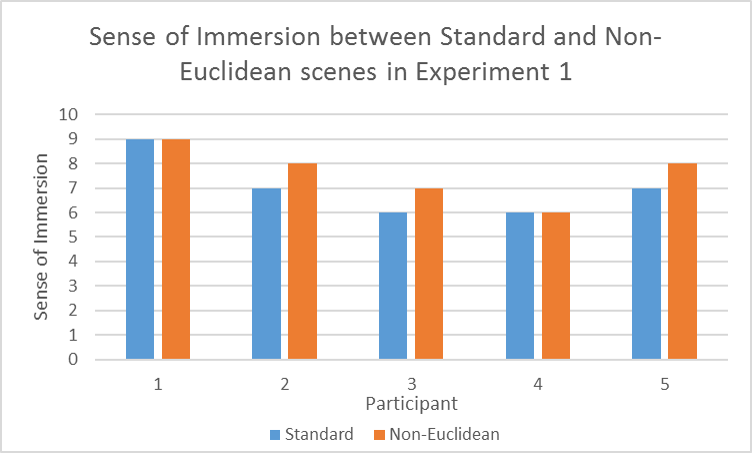
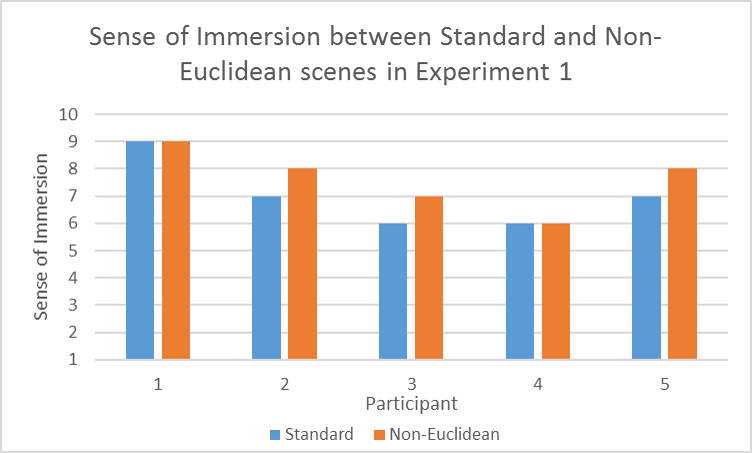
Report formatting and misc fixes
* Further graph fixes

* Reworded Abstract

* Made fixes based on lit review feedback. Re-added multi-column support for entire report

* Completed intro for literature review. Misc formatting.

diff --git a/Report/lr_vr.tex b/Report/lr_vr.tex
@@ -1,47 +1,56 @@
 \section{Presence in Virtual Reality}
 \label{lr:vr}
 
-%\begin{multicols*}{2}
+\begin{multicols*}{2}
 	
 	\subsection{Introduction}
 	\label{lr:vr:intro}
 	%		This section will introduce the key concepts that will be discussed in the following subsections.
 		Presence is the term used in VR systems to describe a user's sense of existing inside a VE. Because of this, it can be seen as one of, if not the most important feature of the design for a VR system.
-		
-		There are a few main features which are key to achieving a sense of presence in a VE. One example would be the general perception of the user for things such as depth perception, the ability for a person to calculate the distance of a point is from themselves, and sensorimotor adaptation, which is the calibration of a users senses to fit their environment. 
-		As well as this, there are specified areas such as affordance detection, the ability for a person to calculate interaction with an object or environment, which helps assist a user with navigation and interaction in a VE. 
+
+		There are a few main features which are key to achieving a sense of presence in a VE. One example would be the general perception of the user for things such as depth perception, the ability for a person to calculate the distance of a point from themselves, and sensorimotor adaptation, which is the calibration of a user's senses to fit their environment.
+		As well as this, there are specified areas such as affordance detection, the ability for a person to calculate interaction with an object or environment, which helps assist a user with navigation and interaction in a VE.
 		The following sections will review existing literature on the aforementioned features.
 	
 	\subsection{Affordances in VR}
 	\label{lr:vr:affordances}
 	%		Here I will introduce the concept of, and cover research into affordances in Virtual Reality.
 		%Perceiving affordances in virtual reality: influence of person and environmental properties in perception of standing on virtual grounds
-		Affordance is especially important to get right in VR, particularly in a video game environment, due to the world a user is in is designed to be interacted with. Unlike what common sense would dictate, research on affordance in the real world may not be as applicable for when designing interactions in a virtual world as expected. A study \cite{Regia-Corte2012} focusing on a persons perception for whether or not they could stand upright on an object at various angles in a virtual world found that, contrary to expected results, users would tend to be more cautious when judging their ability in a virtual environment (critical angle 21.98\degree) compared to an equivalent object in the real world (critical angle 30\degree), even with a lack of apparent risk. 
-		This study covered the various requirements for the experiments well, however there were a few areas in which it could still be expanded upon. These areas include comparing results from using a variety of VR systems to judge responses based off on hardware response times, display resolutions, and refresh rates, as well as increases and decreases in model and texture quality (not just the texture itself like they did) for judging the surfaces of the objects.
-		
+		Affordance is especially important to get right in VR, particularly in a video game environment, due to the world a user is in is designed to be interacted with.
+		Unlike what common sense would dictate, research on affordance in the real world may not be as applicable for when designing interactions in a virtual world as expected.
+		A study \cite{Regia-Corte2012} focusing on a person's perception for whether or not they could stand upright on an object at various angles in a virtual world found that, contrary to expected results, users would tend to be more cautious when judging their ability in a virtual environment (critical angle 21.98\degree) compared to an equivalent object in the real world (critical angle 30\degree), even with a lack of apparent risk.
+
+		This study covered the various requirements for the experiments well, however there were a few areas in which it could still be expanded upon.
+		These areas include comparing results from using a variety of VR systems to judge responses based on hardware response times, display resolutions, and refresh rates, as well as increases and decreases in model and texture quality (not just the texture itself as they did) for judging the surfaces of the objects.
+
 		% Designing presence for real locomotion in immersive virtual environments: an affordance-based experiential approach
-		Another way in which affordance directly affects a users sense of presence in VR is the simulation of real locomotion for the user. In a study \cite{Turchet2015} covering the ways in which a users movement is recorded and displayed in a VE (including, but not limited to, individual foot tracking, arm, leg, and head tracking, movement speed tracking, etc.), results found that while an increase in the coverage of the input also increased the sense of presence for the user, it was more important to focus the areas of which to track on their relevance to the scenario at hand. As well as this, the study found that while the input tracking itself was important, to attain a greater sense of presence it was also required for the physical representation of the user to match their real physical selves as much as possible, such as gender, height, and weight.
-		This study, while extremely thorough in its coverage of the various possible elements required to generate a sense of presence, could have recorded and displayed its results in a more usable manner than it was. Due to the way the experiments were conducted, the results do not indicate any sense of importance for each individual step in its contribution to the feeling of presence in the user. Because of this, further research could be undertaken to create a weighted system designed around the experiments conducted, signifying its importance for specific VR systems, creating a more convenient set of data for future use.
-		
+		Another way in which affordance directly affects a user's sense of presence in VR is the simulation of real locomotion for the user.
+		In a study \cite{Turchet2015} covering the ways in which a user's movement is recorded and displayed in a VE (including, but not limited to, individual foot tracking, arm, leg, and head tracking, movement speed tracking, etc.), results found that while an increase in the coverage of the input also increased the sense of presence for the user, it was more important to focus the areas based on their relevance to the scenario at hand.
+		As well as this, the study found that while the input tracking itself was important, to attain a greater sense of presence it was also required for the physical representation of the user to match their real physical selves as much as possible, such as gender, height, and weight.
+
+		This study, while extremely thorough in its coverage of the various possible elements required to generate a sense of presence, could have recorded and displayed its results in a more usable manner than it did.
+		Due to the way the experiments were conducted, the results do not indicate any sense of importance for each individual step in its contribution to the feeling of presence in the user.
+		Because of this, further research could be undertaken to create a weighted system designed around the experiments conducted, signifying its importance for specific VR systems, creating a more convenient set of data for future use.
+
 	\subsection{Perception in Virtual Environments}
 	\label{lr:vr:perception}
 		This section will cover existing research into how people perceive environments in Virtual Reality.
 		% Using virtual reality to augment perception, enhance sensorimotor adaptation, and change our minds.
 		Perception is a key feature to get right in VR, as incorrect calibration for features such as head tracking and input response can have both unintended, and undesired side-effects. In studies \cite{Wright2006}  \cite{Wright2009} \cite{Wright2011} \cite{Wright2013} \cite{Wright2014} around the effects of perception augmentation and sensorimotor adaptations, results showed that tests around sensorimotor processes that made use of Virtual Reality systems could have both intended and unintended effects on the participants central nervous system. 
 		(NOTE) This paragraph needs expanding upon
-		
-		
+
+
 		% Immersive Virtual Environment Technology to Supplement Environmental Perception, Preference and Behavior Research: A Review with Applications
-		
+
 		(PLACEHOLDER) Discuss \cite{smith2015} - Immersive virtual environment technology to supplement environmental perception, preference, and behaviour research
-		
+
 	\subsection{Conclusion}
 	\label{lr:vr:conclusion}
 		Here I will summarise the concepts and sources discussed in the previous sections, how reliable they may be, and how the concepts could apply to my project.
 		Due to recent relevant technology being both of a high quality, and low enough cost to warrant consumer interest, as well as its applications in not just Video Games, but in Medicine, Psychology, and Education, Virtual Reality is a very highly researched area.
-		
+
 		Studies have been conducted to cover an extremely wide range of applications and effects for VR, and because of this, there is a very solid foundation of work which can be both applied for practical uses, as well as a platform to build upon for future research.
-		
+
 		This is especially true in the two main focus points for the literature covered in this review, and will be beneficial for reference during the creation of the proposed system.
-	
-%\end{multicols*}
+
+\end{multicols*}

diff --git a/Report/Report.tex b/Report/Report.tex
@@ -1,11 +1,14 @@
 \documentclass[abstract=on,12pt]{scrreprt}
 
 % Set packages to be used
+\usepackage[rightcaption]{sidecap}	% Allows for figures with captions on the side, rather than the top/bottom
 \usepackage[hidelinks]{hyperref}	% Adds support for hyperlinks
 \usepackage[british]{babel}			% Set the language to UK English
 \usepackage[a4paper]{geometry}		% Set the paper type
 \usepackage[T1]{fontenc}			% Change the encoding to allow for more character types
 \usepackage{booktabs}				% More professional looking table layouts
+\usepackage{csquotes}				% Easy quotation
+\usepackage{enumitem}				% Nicer itemizations
 \usepackage{etoolbox}				% Lets you do fancy stuff with section types
 \usepackage{fancyhdr}				% Fancy Headers
 \usepackage{graphicx} 				% For loading graphic files
@@ -18,6 +21,7 @@
 \usepackage{apalike}				% Format references in APA styling
 \usepackage{gensymb}				% Allow inclusion of special characters, such as degrees
 \usepackage{lmodern} 				% Type1-font for non-english texts and characters
+\usepackage{wrapfig}				% Allows wrapping figures in text blocks
 
 % Set document specific info
 \title{Is Immersion Possible in Non-Euclidean Virtual Environments?}
@@ -25,6 +29,7 @@
 \author{Nathan Boxhall-Burnett}
 \setlength{\columnsep}{1cm}			% Set the spacing between columns
 \onehalfspacing						% Set the spacing between the lines of text
+%\doublespacing
 \graphicspath{Images/}				% Set the default path to use for images
 
 % Set the page number and running title as header
@@ -69,13 +74,11 @@
 	% Abstract
 	\begin{abstract}
 		\thispagestyle{plain}
-		expression of general problem/area
 
-		specific problem/objective attempted
-
-		what you have achieved
-
-		lessons learned
+		% expression of general problem/area
+		% specific problem/objective attempted
+		% what you have achieved
+		% lessons learned
 
 		%% DO NOT START BY SAYING WHAT YOU HAVE DONE 
 		%% DO NOT INCLUDE JARGON / DETAILS 
@@ -83,10 +86,11 @@
 		% Eg bad start “ I have created a web application” – start with overview and problem area first.
 		%% MAKE IT UNDERSTANDABLE TO ALL ! 
 
-
-%		With Virtual Reality (VR) development and availability increasing as rapidly as it has in recent years, especially in the video game market, experiences that are capable from Virtual Environments (VE) that are not limited to the restrictions of the real world, and the effectiveness they have in a users perception, need to be considered.
-%		This review explores the existing literature that covers the various requirements for creating a VE that consumers would perceive as 'realistic' in VR. As well as this, it also covers how these requirements have been, and can, be adapted to work inside of a world which does not follow the restrictions of real world geometry, such as in non-Euclidean or Escheresque space.
-%		Gaps in the current literature are outlined, alongside perspective areas for future research.
+		With Virtual Reality (VR) development and availability increasing as rapidly as it has in recent years, experiences that are capable from Virtual Environments (VE) that are not limited to the restrictions of the real world, and the effectiveness they have in a users perception and sense of immersion, need to be considered.
+		Studies surrounding a users interaction in VR environments that have taken place previously tend to focus on how reliably the user can interact with an environment mimicking the real world.
+		This study attempts to fill the gap in existing research by examining the effects non-Euclidean geometry has on a users sense of immersion in VR.
+		% TODO Talk about data gathering
+		% TODO Talk about results
 	\end{abstract}
 
 	% Set formatting for section titles

diff --git a/Report/lr_intro.tex b/Report/lr_intro.tex
@@ -2,16 +2,20 @@
 \label{lr:intro}
 %	Here I will be introducing and outlining the concepts that will be covered in the following sections.
 	
-%\begin{multicols*}{2}
-	Virtual Reality (VR) is fast becoming a mainstream platform for video games, with high quality devices allowing the feeling of 'presence' in a game world being released for computers, game consoles, and mobile devices alike, creating a vast user base for potential products.
-	
+\begin{multicols*}{2}
+	Virtual Reality (VR) is fast becoming a mainstream platform for video games, with high quality devices allowing the feeling of \enquote{presence} in a game world being released for computers, game consoles, and mobile devices alike, creating a vast user base for potential products.
+
 	As well as this, the popularity of video games which utilise non-standard or real-world geometric principles are also increasing, with the popularity of titles such as Antichamber \cite{Antichamber2013} and Portal 2 \cite{Portal22011} engaging consumers with their non-conformity to the physics and geometry of average game worlds.
-	
+
+	This review explores the existing literature that covers the various requirements for creating a VE that consumers would perceive as \enquote{realistic} in VR.
+	As well as this, it also covers how these requirements have been, and can be, adapted to work inside of a world which does not follow the restrictions of real world geometry, such as in non-Euclidean or Escheresque space.
+	Gaps in the current literature are outlined, alongside prospective areas for future research.
+
 	This review is split up into three chapters, each one covering a specific area of existing literature relevant to it:
 	\begin{enumerate}
 		\item \nameref{lr:vr}, which will cover various elements creating a sense of presence in a Virtual Environment (VE) using VR requires, such as user perception and affordances
 		\item \nameref{lr:ne}, which will cover existing applications of non-standard geometry in video game systems
-		\item \nameref{lr:cross}, which will cover how the requirements from the previous chapters are to be utilised together to form a working system, as well as the tools which are best suited for constructing such as system
+		\item \nameref{lr:cross}, which will cover how the requirements from the previous chapters are to be utilised together to form a working system, as well as the tools which are best suited for constructing such a system
 	\end{enumerate}
-	
-%\end{multicols*}
+
+\end{multicols*}

diff --git a/Report/lr_conclusion.tex b/Report/lr_conclusion.tex
@@ -2,14 +2,14 @@
 \label{lr:conclusion}
 %	Here I will be summarising the state of the existing literature from the previous sections, and outlining any gaps in the research.
 
-%\begin{multicols*}{2}
+\begin{multicols*}{2}
 	In Virtual Reality, non-standard geometry is definitely an area with potential to engage, and possibly spark an interest within a user about the capabilities and uses of such concepts.
-	
+
 	This paper has given an overview into the various components required for the creation of an environment suitable for use in VR, how non-standard geometrical worlds can be created for use in a VE, and how the areas both require adaptation in order to work together.
-	
+
 	In terms of Virtual Reality, existing literature is very thorough in its coverage of the possibilities and effects of its use both within and outside of video game environments. Although there is definitely still room for further research into the more niche areas of study, there is a solid foundation for use as a reference for development in the field.
-	
+
 	For non-Euclidean geometry, however, there is a distinct lack of academic research into its use within virtual environments, with most studies focusing instead on the theoretical applications for it. Reports around the use of non-standard geometry in video games does exist, however due to the non-scholarly nature of the sources, which are mainly video game journalist articles or developer interviews, they cannot be completely trusted for academic purposes.
-	
+
 	Due to combination of the findings surrounding these areas, future research into the use of non-Euclidean geometry within a VR system is very open to exploration, and as such, research would be beneficial as a possible basis for further study, perhaps even encouraging it.
-%\end{multicols*}
+\end{multicols*}

diff --git a/Report/design.tex b/Report/design.tex
@@ -1,5 +1,7 @@
-\chapter[Product]{Product Design and Implementation}
+\chapter[Product]{Design and Implementation}
 \label{design}
+
+\begin{multicols*}{2}
 
 	\section{Introduction}
 		Here I will give an overview of the following sections.
@@ -13,16 +15,31 @@
 	\section{Design of experiment environments}
 		Here I will be covering the designs of the various areas of the virtual environments to be used in the experiments themselves, and why they are applicable for use for the tests.
 
-		\begin{figure}
+\end{multicols*}
+
+		\begin{figure}[h]
 			\label{design:fig:scene}
-			\includegraphics[width=1\textwidth]{Images/Lines_Everywhere}
+			\includegraphics[width=1\textwidth]{Images/Lines_Everywhere2}
 			\centering
-			\caption{Sample view of a scene.
+			\caption{Example view of a scene.
 				Red lines are connections between points,
 				yellow lines are connections visible to the player,
 				and green lines are the direction the connectors are facing}
 		\end{figure}
 
+		\begin{figure}[h]
+			\label{design:fig:game}
+			\includegraphics[width=1\textwidth]{Images/NE_View}
+			\centering
+			\caption{Example of view from inside the Non-Euclidean scene, displaying an area which is larger on the inside}
+		\end{figure}
+
+\begin{multicols*}{2}
+
+	something here
+
 	\section{Evaluation}
 
 	% Is the product fit for purpose?
+
+\end{multicols*}

diff --git a/Report/experiment.tex b/Report/experiment.tex
@@ -1,5 +1,6 @@
 \chapter{Experiment}
 \label{exp}
+\begin{multicols*}{2}
 
 	\section{Introduction}
 	Here I will give a brief overview of the experiments that I will have conducted, the variations that they have between them, and why I chose those variations.
@@ -19,6 +20,8 @@
 
 	\section{Summary}
 	Here I will be evaluating the results of the experiments, covering any trends that appeared between the various experiments, discussing potential impacts from the results, as well as covering any additional notes that were provided about the experiments from the participants which weren't directly related to the specific experiment they were part of.
+
+\end{multicols*}
 
 	\begin{figure}
 		\label{exp:fig:standard_immersion}
@@ -82,3 +85,7 @@
 		\centering
 		\caption{Mean values, and variation of Range for Immersion in the two test scenes}
 	\end{figure}
+
+\begin{multicols*}{2}
+
+\end{multicols*}

diff --git a/Report/lr_crossover.tex b/Report/lr_crossover.tex
@@ -1,7 +1,7 @@
 \section{Application of VR in Non-Euclidean worlds}
 \label{lr:cross}
 
-%\begin{multicols*}{2}
+\begin{multicols*}{2}
 	\subsection{Introduction}
 	\label{lr:cross:intro}
 %		In this section I will introduce the concepts to be covered in this section, namely how one can apply the key concepts for perception and presence in VR to a game world using non-standard geometry.
@@ -72,4 +72,4 @@
 %		This section will sum up the points discussed in the above subsections.
 		(PLACEHOLDER) Sum up the points discussed in the above sections. Example: current implementations of non-euclidean geometry in released games have always directly used, or modified an existing generic game engine to create the VE, and are therefore not optimised to be used in a non-euclidean world.
 	
-%\end{multicols*}
+\end{multicols*}

diff --git a/Report/literature_review.tex b/Report/literature_review.tex
@@ -1,16 +1,16 @@
 \chapter{Literature Review}
 
-% Intro Page
-\input{lr_intro}
+	% Intro Page
+	\input{lr_intro}
 
-% Requirements for Presence in Virtual Reality chapter
-\input{lr_vr}
+	% Requirements for Presence in Virtual Reality chapter
+	\input{lr_vr}
 
-% Non-Standard Geometry chapter
-\input{lr_ne-geo}
+	% Non-Standard Geometry chapter
+	\input{lr_ne-geo}
 
-% Application of Virtual Reality in a Non-Euclidean world Chapter
-\input{lr_crossover}
+	% Application of Virtual Reality in a Non-Euclidean world Chapter
+	\input{lr_crossover}
 
-% Conclusion
-\input{lr_conclusion}
+	% Conclusion
+	\input{lr_conclusion}

diff --git a/Report/lr_ne-geo.tex b/Report/lr_ne-geo.tex
@@ -1,7 +1,7 @@
 \section{Non-Standard Geometry in Game Engines}
 \label{lr:ne}
 
-%\begin{multicols*}{2}
+\begin{multicols*}{2}
 	\subsection{Introduction}
 	\label{lr:ne:intro}
 %		In this section I will introduce the concept of non-standard geometry, e.g. non-Euclidean, and review existing literature regarding its use in video game engines.
@@ -20,4 +20,4 @@
 	\label{lr:ne:conclusion}
 		This section will be used to sum up the sources discussed above, how relevant and reliable they are as sources, and how they relate to my project.
 		
-%\end{multicols*}
+\end{multicols*}

diff --git a/Report/intro.tex b/Report/intro.tex
@@ -1,5 +1,6 @@
 \chapter{Introduction}
 \label{intro}
+\begin{multicols*}{2}
 
 	%explains  context, the problem/area, the clients / users / target audience. Also it should give a summary of what you have achieved and what your deliverable is.
 
@@ -9,3 +10,5 @@
 
 
 	%Here I will be introducing the project and the various sections of the report document in detail, making sure to cover the terms and concepts that will be discussed to ensure the reader has full understanding of the report contents.
+
+\end{multicols*}

diff --git a/Report/conclusion.tex b/Report/conclusion.tex
@@ -1,4 +1,7 @@
 \chapter{Conclusion}
 \label{conclusion}
+\begin{multicols*}{2}
 
 	Here is where I will conclude the report as a whole, covering the results of the experiment, how they match up to the information learned from the existing literature review, as well as any further work which could be done on the subject area.
+
+\end{multicols*}

diff --git a/Report/project_evaluation.tex b/Report/project_evaluation.tex
@@ -1,4 +1,7 @@
 \chapter{Project Evaluation}
 \label{eval}
+\begin{multicols*}{2}
 
 	% This is the one bit where you can talk in the first person, so go wild.
+
+\end{multicols*}
